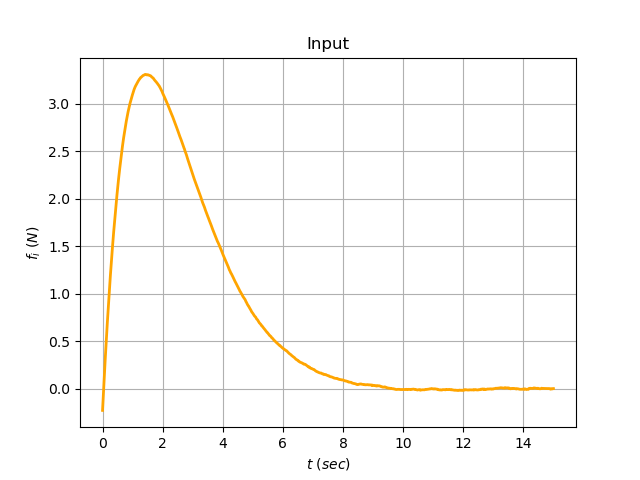
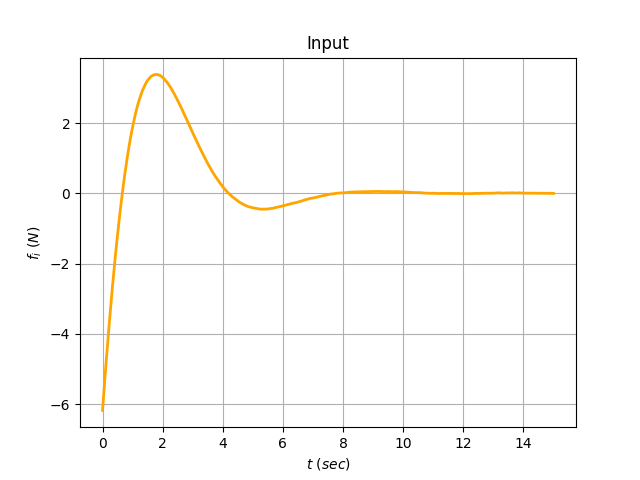
added lqr init

diff --git a/mass_sping_damper_sim_adp_lqr_init.py b/mass_sping_damper_sim_adp_lqr_init.py
@@ -1,0 +1,184 @@
+import numpy as np
+import matplotlib
+import matplotlib.pyplot as plot
+import os
+import datetime
+
+from scipy.linalg import solve_continuous_are
+
+np.random.seed()
+
+# basis
+def phi(X=np.array(2)):
+    # [x^2,x*xD,xD^2]
+    phi_ = np.array([X[0]**2,X[0]*X[1],X[1]**2])
+    return phi_
+
+# basis gradient
+def grad_phi(X=np.array(2)):
+    #[[2x,0],
+    # [xD,x],
+    # [0,2xD]]
+    grad_phi_ = np.array([[2*X[0],0.0],[X[1],X[0]],[0.0,2*X[1]]])
+    return grad_phi_
+
+# def f(Q,R,nu,Gamma,A,B,X,Wa,Wc,GR,XE):
+
+
+# #classic rk4 method
+# def rk4(self,dt,t,X):
+#     k1,u1 = f(t,X)
+#     k2,u2 = f(t+0.5*dt,X+0.5*dt*k1)
+#     k3,u3 = f(t+0.5*dt,X+0.5*dt*k2)
+#     k4,u4 = f(t+dt,X+dt*k3)
+#     XD = (1.0/6.0)*(k1+2.0*k2+2.0*k3+k4)
+#     um = (1.0/6.0)*(u1+2.0*u2+2.0*u3+u4)
+
+#     return XD,um
+
+#bellman error extrapolation
+def BEE(Q,R,nu,Gamma,A,B,X,Wa,Wc,GR):
+    phi_ = phi(X)
+    grad_phi_ = grad_phi(X)
+    Gphi = grad_phi_@GR@grad_phi_.T
+    u = -0.5/R*B.T@grad_phi_.T@Wa
+    XD = A@X + B@u
+    omega = grad_phi_@XD
+    rho = 1.0+nu*np.dot(omega,Gamma@omega)
+    r = np.dot(X,Q@X)+R*u**2
+    delta = r + np.dot(Wc,omega)
+    return u,omega,rho,delta,Gphi,phi_
+
+# test using mass spring damper
+if __name__ == '__main__':
+    dt = 0.01 # time step
+    tf = 15.0 # final time
+    t = np.linspace(0.0,tf,int(tf/dt))
+    steps = int(tf//dt)
+    m = 10.0 # mass
+    c = 1.0 #damper
+    k = 5.0 #spring
+    X = np.zeros((2,len(t)))
+    X[:,0] = np.array([[1.0,0.0]]) # position velocity
+    u = np.zeros_like(t) #inputs
+    A = np.array([[0.0,1.0],[-k/m,-c/m]]) # drift
+    B = np.array([[0],[1.0/m]]) # control effectiveness
+    Wc = np.zeros((3,len(t))) # critic weights
+    # Wc[:,0] = 0.01*np.random.randn(3)
+    Wa = np.zeros((3,len(t))) # actor weights
+    # Wa[:,0] = 0.01*np.random.randn(3)
+    Gamma = 100.0*np.eye(3)
+    etac_1 = 0.005 # gain on critic on trajectory
+    etac_2 = 0.1 # gain on critic off trajectory
+    etaa_1 = 10.0 # gain on difference between Wa and Wc
+    etaa_2 = 0.1 # gain on Wa
+    lam = 0.4 # gain for Gamma on Gamma
+    nu = 0.005
+    # Q = np.diag([10.0,5.0]) # state cost
+    Q = np.diag([0.1,0.01]) # state cost
+    R = 0.001 # input cost
+    GR = 1.0/R*np.outer(B,B)
+    N = 100 # number of extrapolation points
+    md_mag = 0.1 # matched disturbance magnitude
+    P = solve_continuous_are(A,B,Q,np.array([R]))
+    Wc[:,0] = [P[0,0],2*P[0,1],P[1,1]]
+    Wa[:,0] = Wc[:,0]
+    for ii in range(steps):
+        X_ii = X[:,ii]
+        Wc_ii = Wc[:,ii]
+        Wa_ii = Wa[:,ii]
+        u_ii,omega_ii,rho_ii,delta_ii,Gphi_ii,phi_ii = BEE(Q,R,nu,Gamma,A,B,X_ii,Wa_ii,Wc_ii,GR)
+        XD_ii = A@X_ii + B@(u_ii+md_mag*np.random.randn(1))
+
+        # extrapolations
+        Wc_BE = etac_1*delta_ii/rho_ii*omega_ii
+        Wa_BE = etac_1/(4.0*rho_ii)*Gphi_ii.T@np.outer(Wa_ii,omega_ii)@Wc_ii
+        Gamma_BE = etac_1/(rho_ii**2)*np.outer(omega_ii,omega_ii)
+
+        for jj in range(N):
+            X_jj = X_ii + 2.0*np.random.randn(2) # random point around X
+            _,omega_jj,rho_jj,delta_jj,Gphi_jj,_ = BEE(Q,R,nu,Gamma,A,B,X_jj,Wa_ii,Wc_ii,GR)
+            Wc_BE += etac_2*delta_jj/rho_jj*omega_jj
+            Wa_BE += etac_2/(4.0*rho_jj)*Gphi_jj.T@np.outer(Wa_ii,omega_jj)@Wc_ii
+            Gamma_BE += etac_2/(rho_jj**2)*np.outer(omega_jj,omega_jj)
+
+        # Wc_BE = delta_ii/rho_ii**2*omega_ii
+        # Wa_BE = 1.0/(4.0*rho_ii**2)*Gphi_ii.T@np.outer(Wa_ii,omega_ii)@Wc_ii
+        # Gamma_BE = 1.0/(rho_ii**2)*np.outer(omega_ii,omega_ii)
+
+        # for jj in range(N):
+        #     X_jj = X_ii + 0.1*np.random.randn(2) # random point around X
+        #     _,omega_jj,rho_jj,delta_jj,Gphi_jj = BEE(Q,R,nu,Gamma,A,B,X_jj,Wa_ii,Wc_ii,GR)
+        #     Wc_BE += delta_jj/rho_jj**2*omega_jj
+        #     Wa_BE += 1.0/(4.0*rho_jj**2)*Gphi_jj.T@np.outer(Wa_ii,omega_jj)@Wc_ii
+        #     Gamma_BE += 1.0/(rho_jj**2)*np.outer(omega_jj,omega_jj)
+
+        WcD_ii = -1.0/(N+1)*Gamma@Wc_BE
+        WaD_ii = -etaa_1*(Wa_ii-Wc_ii)-etaa_2*Wa_ii+1.0/(N+1)*Wa_BE
+        # WaD_ii = -etaa_1*(Wa_ii-Wc_ii)
+        GammaD = lam*Gamma-1.0/(N+1)*Gamma@Gamma_BE@Gamma
+        if t[ii] > 10:
+            b=2
+
+        X[:,ii+1] = X_ii + XD_ii*dt
+        Wc[:,ii+1] = Wc_ii + WcD_ii*dt
+        Wa[:,ii+1] = Wa_ii + WaD_ii*dt
+        u[ii] = u_ii
+        Gamma += GammaD*dt
+        # Gamma = np.clip(Gamma,0.01,100.0)
+        print("t: "+str(round(t[ii],3))+" X "+str(np.round(X[:,ii],3))+" V "+str(np.round(np.dot(Wc_ii,phi_ii),3)))
+    X_f = X[:,-1]
+    phi_f = phi(X_f)
+    grad_phi_f = grad_phi(X_f)
+    Wa_f = Wa[:,-1]
+    u_f = -0.5/R*B.T@grad_phi_f.T@Wa_f
+    u[-1] = u_f
+
+    # plot the data
+    now = datetime.datetime.now()
+    nownew = now.strftime("%Y-%m-%d-%H-%M-%S")
+    path = "sim-"+nownew
+    os.mkdir(path)
+
+    #plot the position
+    positionplot,positionax = plot.subplots()
+    positionax.plot(t,X[0,:],color='orange',linewidth=2)
+    positionax.set_xlabel("$t$ $(sec)$")
+    positionax.set_ylabel("$x$ $(m)$")
+    positionax.set_title("Position")
+    positionax.grid()
+    positionplot.savefig(path+"/position.png")
+
+    #plot the velocity
+    velocityplot,velocityax = plot.subplots()
+    velocityax.plot(t,X[1,:],color='orange',linewidth=2)
+    velocityax.set_xlabel("$t$ $(sec)$")
+    velocityax.set_ylabel("$\dot{x}$ $(m/s)$")
+    velocityax.set_title("Velocity")
+    velocityax.grid()
+    velocityplot.savefig(path+"/velocity.png")
+
+    #plot the input
+    inputplot,inputax = plot.subplots()
+    inputax.plot(t,u,color='orange',linewidth=2)
+    inputax.set_xlabel("$t$ $(sec)$")
+    inputax.set_ylabel("$f_{i}$ $(N)$")
+    inputax.set_title("Input")
+    inputax.grid()
+    inputplot.savefig(path+"/input.png")
+
+    #plot the weights
+    acplot,acax = plot.subplots()
+    acax.plot(t,Wa[0,:],color='red',linewidth=2,linestyle='dashed')
+    acax.plot(t,Wa[1,:],color='green',linewidth=2,linestyle='dashed')
+    acax.plot(t,Wa[2,:],color='blue',linewidth=2,linestyle='dashed')
+    acax.plot(t,Wc[0,:],color='red',linewidth=2)
+    acax.plot(t,Wc[1,:],color='green',linewidth=2)
+    acax.plot(t,Wc[2,:],color='blue',linewidth=2)
+    acax.set_xlabel("$t$ $(sec)$")
+    acax.set_ylabel("$W$ $(m)$")
+    acax.set_title("Actor (dashed) Critic (solid) Weights")
+    acax.grid()
+    acplot.savefig(path+"/weights.png")
+
+    print("Gamma: "+str(np.round(Gamma,3)))

diff --git a/mass_spring_damper_sim_lqr.py b/mass_spring_damper_sim_lqr.py
@@ -3,8 +3,7 @@ import matplotlib
 import matplotlib.pyplot as plot
 import os
 import datetime
-from scipy.linalg import solve_lyapunov
-from scipy.linalg import solve_discrete_are
+from scipy.linalg import solve_continuous_are
 
 np.random.seed()
 
@@ -24,7 +23,7 @@ if __name__ == '__main__':
     B = np.array([[0],[1.0/m]]) # control effectiveness
     Q = np.diag([0.1,0.01]) # state cost
     R = 0.001 # input cost
-    P = solve_discrete_are(A,B,Q,np.array([R]))
+    P = solve_continuous_are(A,B,Q,np.array([R]))
     K = 1.0/R*(B.T@P)
 
     md_mag = 0.1 # matched disturbance magnitude
